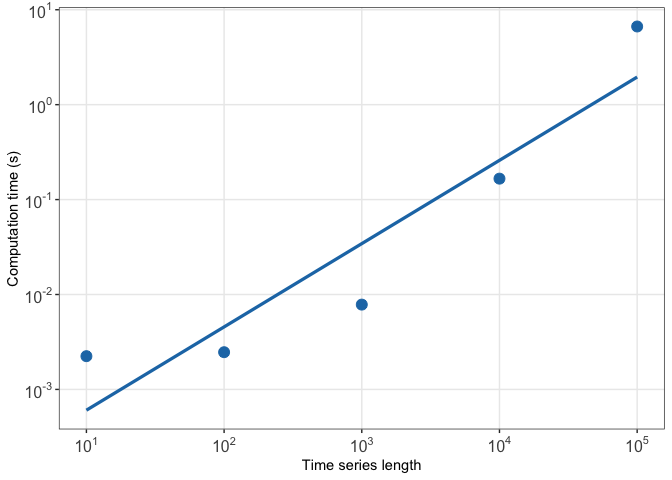
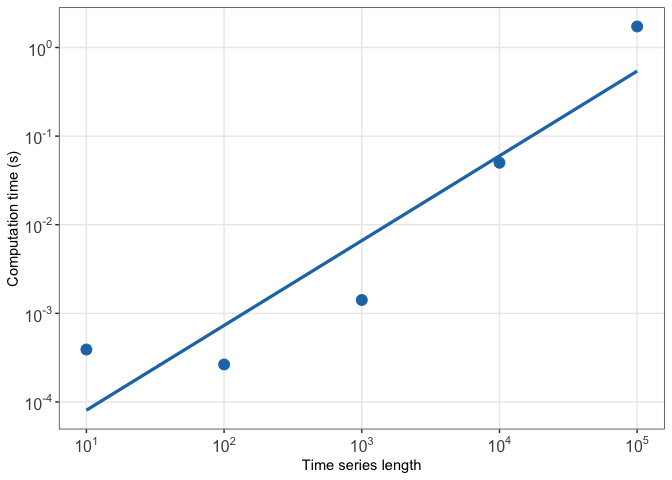
readme

diff --git a/README.md b/README.md
@@ -30,20 +30,18 @@ devtools::install_github("hendersontrent/Rcatch22")
 
 You might also be interested in a related R package called
 [`theft`](https://github.com/hendersontrent/theft) (Tools for Handling
-Extraction of Features from Time series) which provides standardised
-access to `Rcatch22` and 5 other feature sets (including 3 feature sets
-from Python libraries) for a total of \~1,200 features. `theft` also
-includes extensive functionality for processing and analysing
-time-series features, including automatic time-series classification,
-top performing feature identification, and a range of statistical data
-visualisations.
+Extraction of Features from Time series) which provides standardized
+access to `Rcatch22` and several other feature sets in both R and Python
+for a total of \>6,600 features (including enabling you to calculate
+your own custom features).
 
 ## Wiki
 
 Please open the included vignette within an R environment or visit the
-detailed [`Rcatch22`
-Wiki](https://time-series-features.gitbook.io/catch22/r) for information
-and tutorials.
+detailed [`catch22`
+gitbook](https://time-series-features.gitbook.io/catch22) for detailed
+information on all the features and implementations in various
+programming languages.
 
 ## Computational performance
 
@@ -68,21 +66,18 @@ features <- catch22_all(x, catch24 = TRUE)
 A DOI is provided at the top of this README. Alternatively, the package
 can be cited using the following:
 
-
     To cite package 'Rcatch22' in publications use:
 
-      Trent Henderson (2022). Rcatch22: Calculation of 22 CAnonical
-      Time-Series CHaracteristics. R package version 0.2.1.
-      https://CRAN.R-project.org/package=Rcatch22
+      Henderson T (2026). _Rcatch22: Calculation of 22 CAnonical
+      Time-Series CHaracteristics_. R package version 0.2.4.
 
     A BibTeX entry for LaTeX users is
 
       @Manual{,
         title = {Rcatch22: Calculation of 22 CAnonical Time-Series CHaracteristics},
         author = {Trent Henderson},
-        year = {2022},
-        note = {R package version 0.2.1},
-        url = {https://CRAN.R-project.org/package=Rcatch22},
+        year = {2026},
+        note = {R package version 0.2.4},
       }
 
 Please also cite the original *catch22* paper: